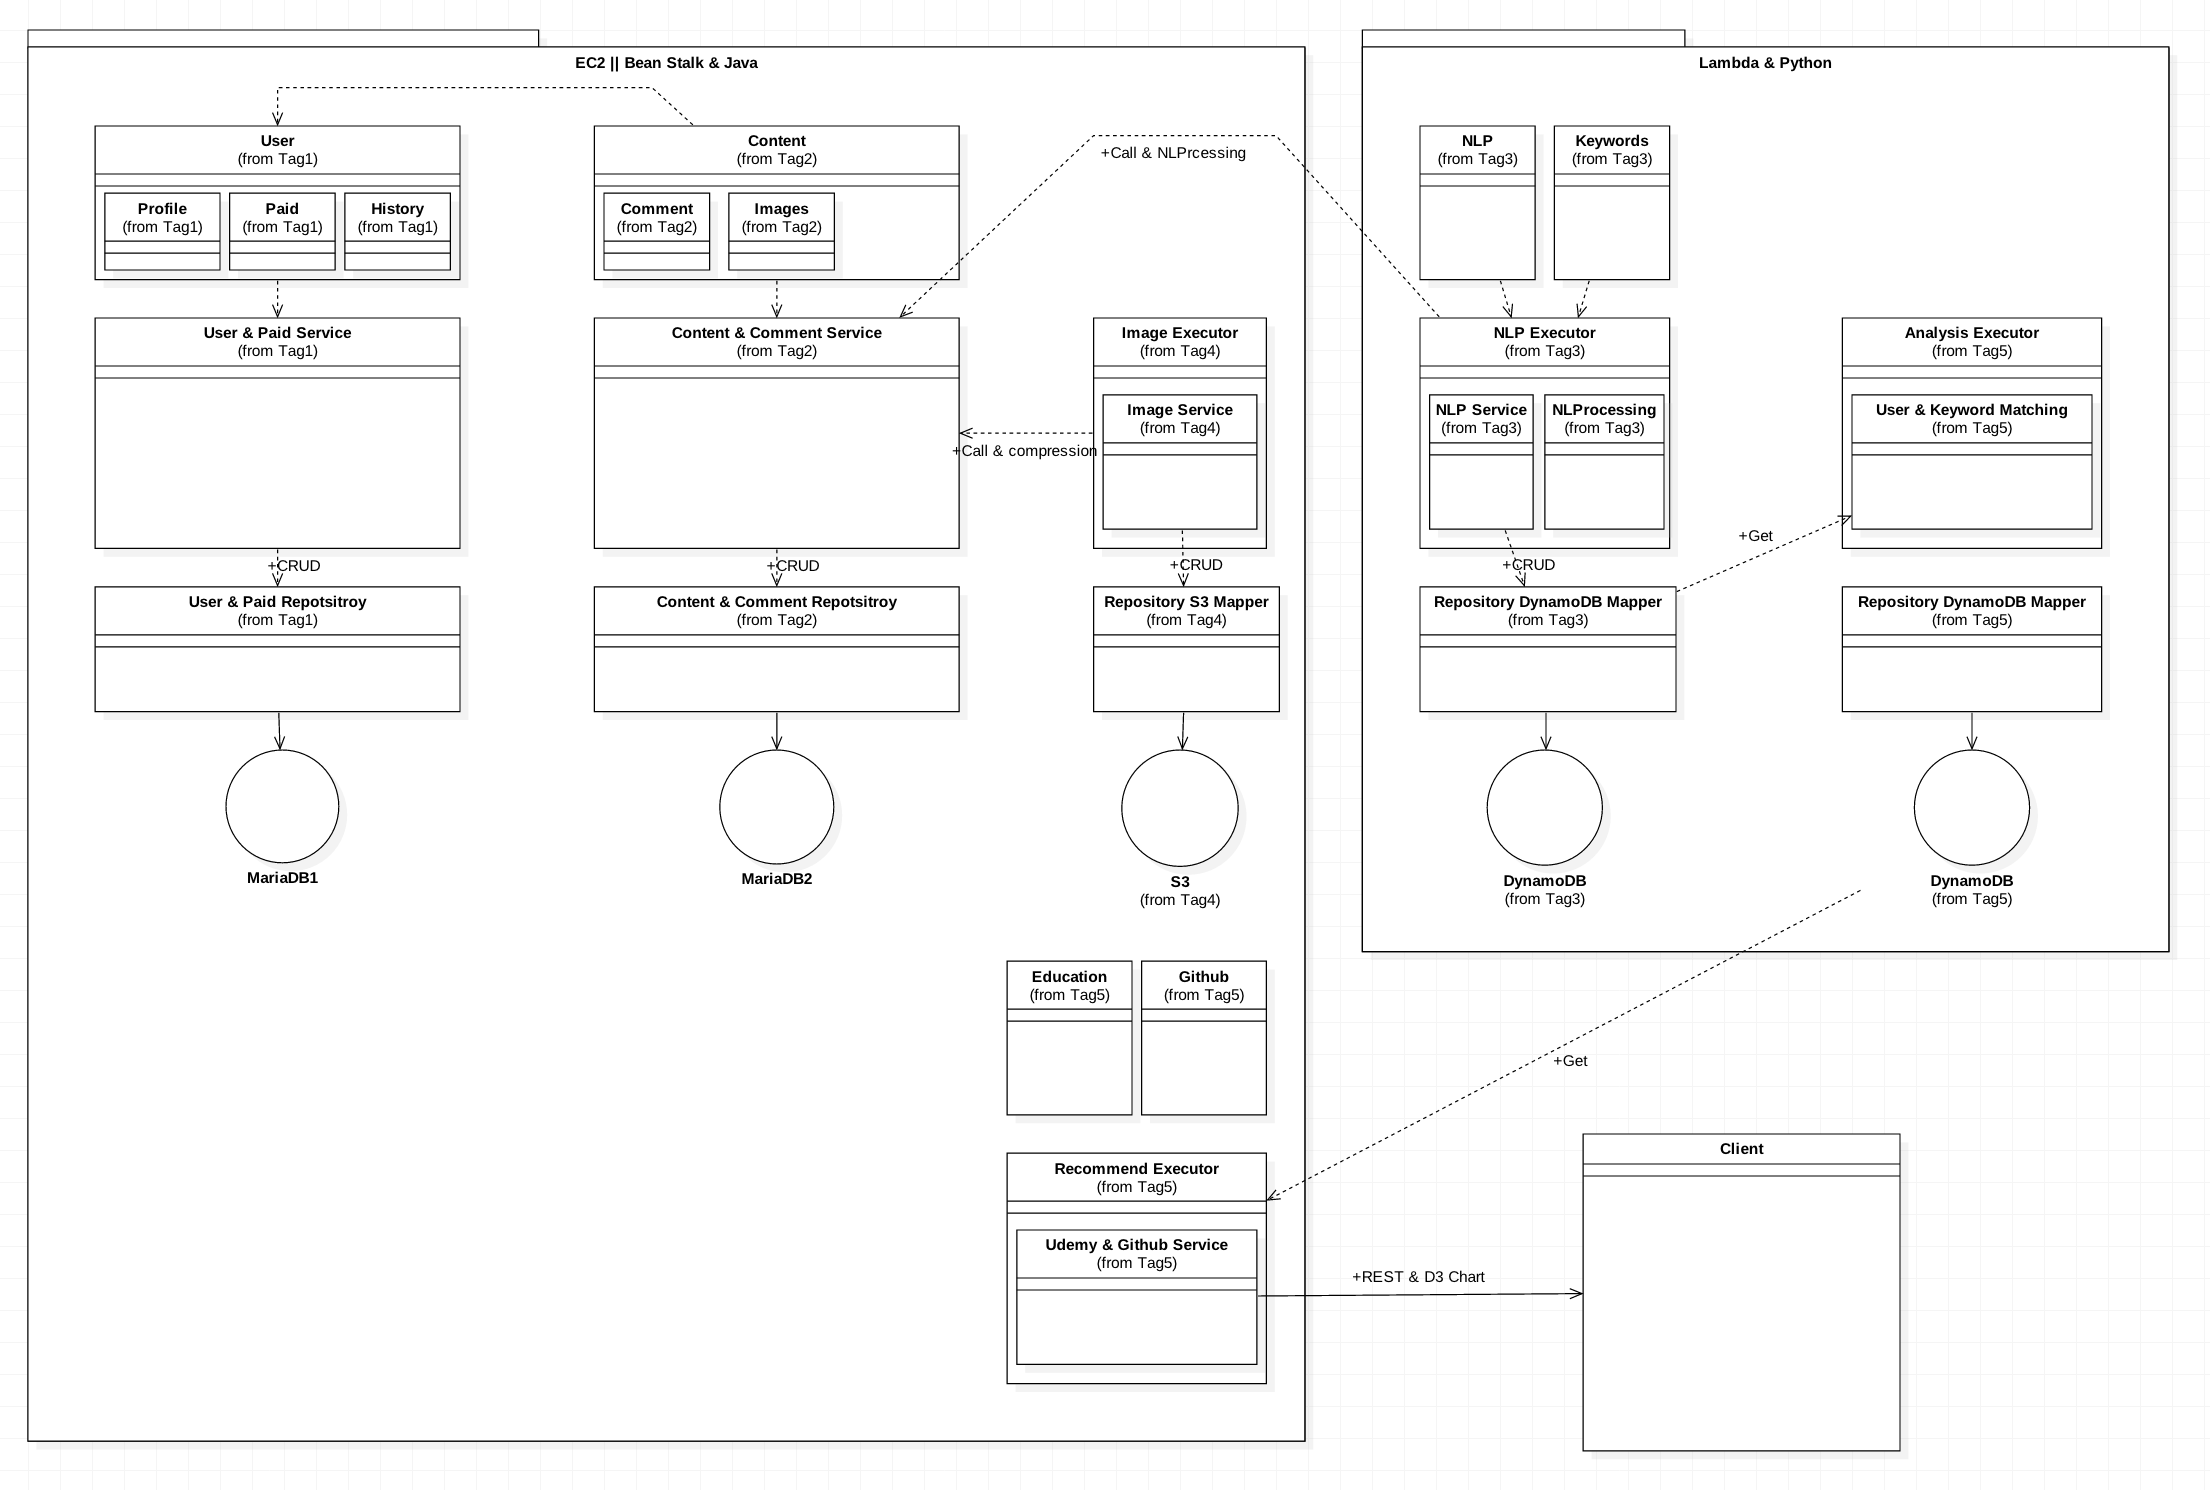
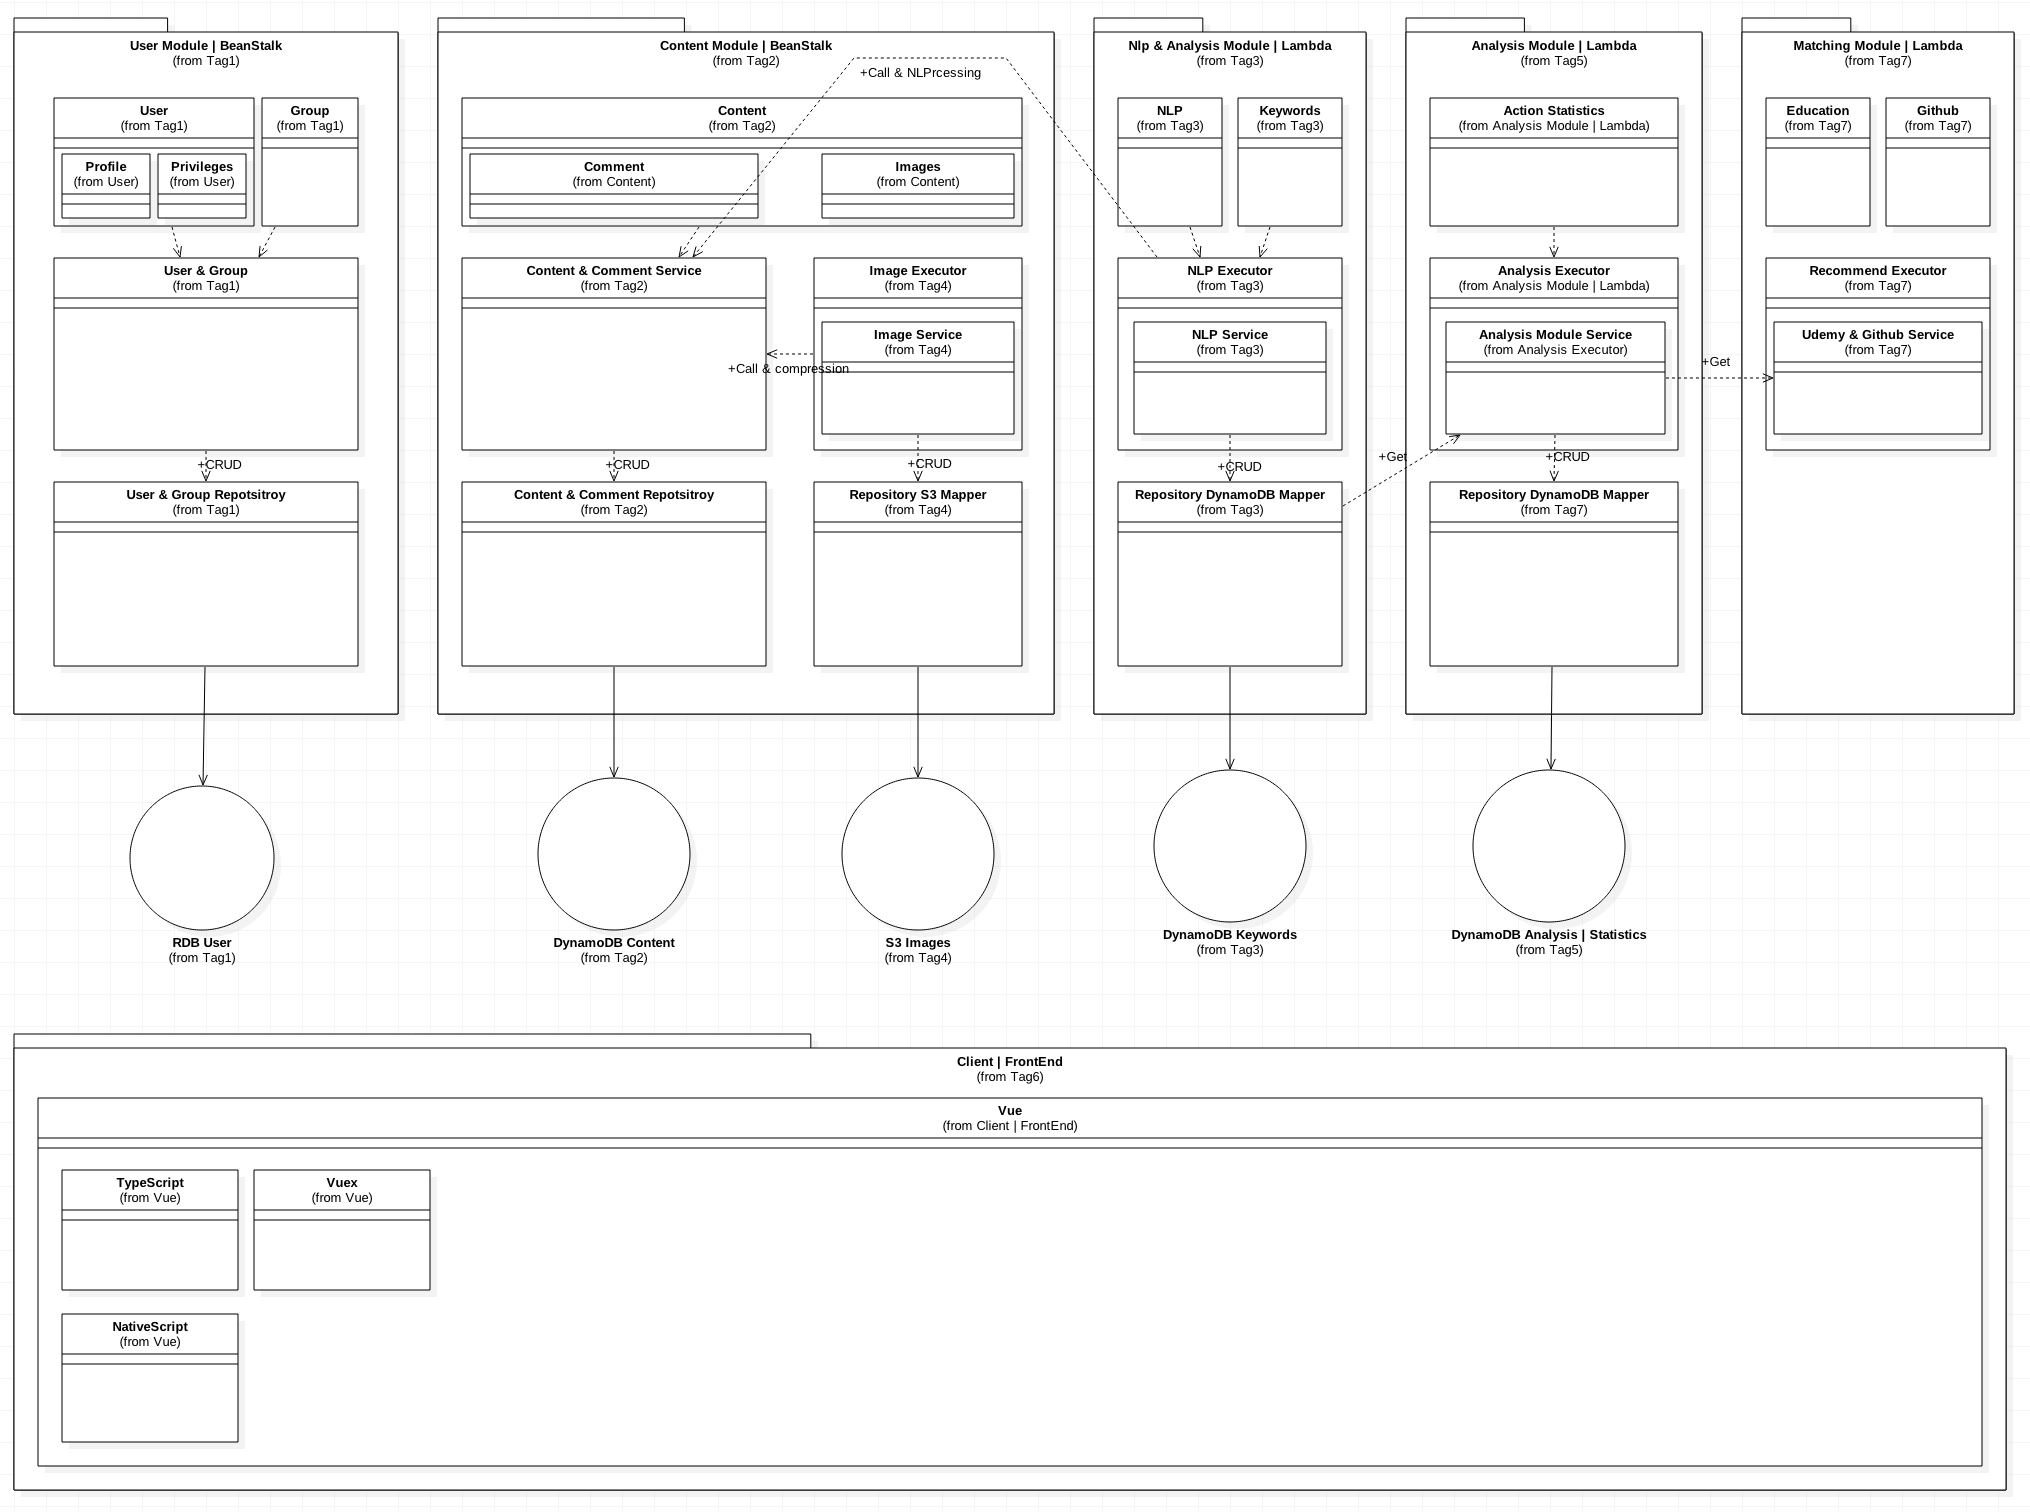
Is Added Vuex test

diff --git a/frontend/src/main.js b/frontend/src/main.js
@@ -3,6 +3,8 @@ import Vue from 'vue'
 import App from './App'
 // Router
 import router from './router'
+// Vuex
+import store from './state'
 // Bootstrap
 import BootstrapVue from 'bootstrap-vue'
 import 'bootstrap/dist/css/bootstrap.css'
@@ -32,19 +34,19 @@ const i18n = new VueI18n({
   silentTranslationWarn: true
   // set locale messages
 })
-
 // change locale
 // i18n.locale = 'ja'
 
 // Never Removed this
 /* eslint-disable no-new */
+Vue.prototype.$appName = 'Hi-Cord'
+Vue.prototype.$http = axios
 const vm = new Vue({
   el: '#app',
   router,
+  store,
   i18n,
   render: h => h(App)
 })
-vm.prototype.$appName = 'Hi-cord'
-vm.prototype.$http = axios
 
 export default vm

diff --git a/frontend/src/state/state.js b/frontend/src/state/state.js
@@ -1,0 +1,21 @@
+import Vue from 'vue'
+  import Vuex from 'vuex'
+
+Vue.use(Vuex)
+const store = new Vuex.Store({
+  state: {
+    count: 0
+  },
+  mutations: {
+    increment (state) {
+      state.count++
+    },
+    decrement (state) {
+      state.count--
+    }
+  },
+  actions: {}
+
+})
+
+export default store
